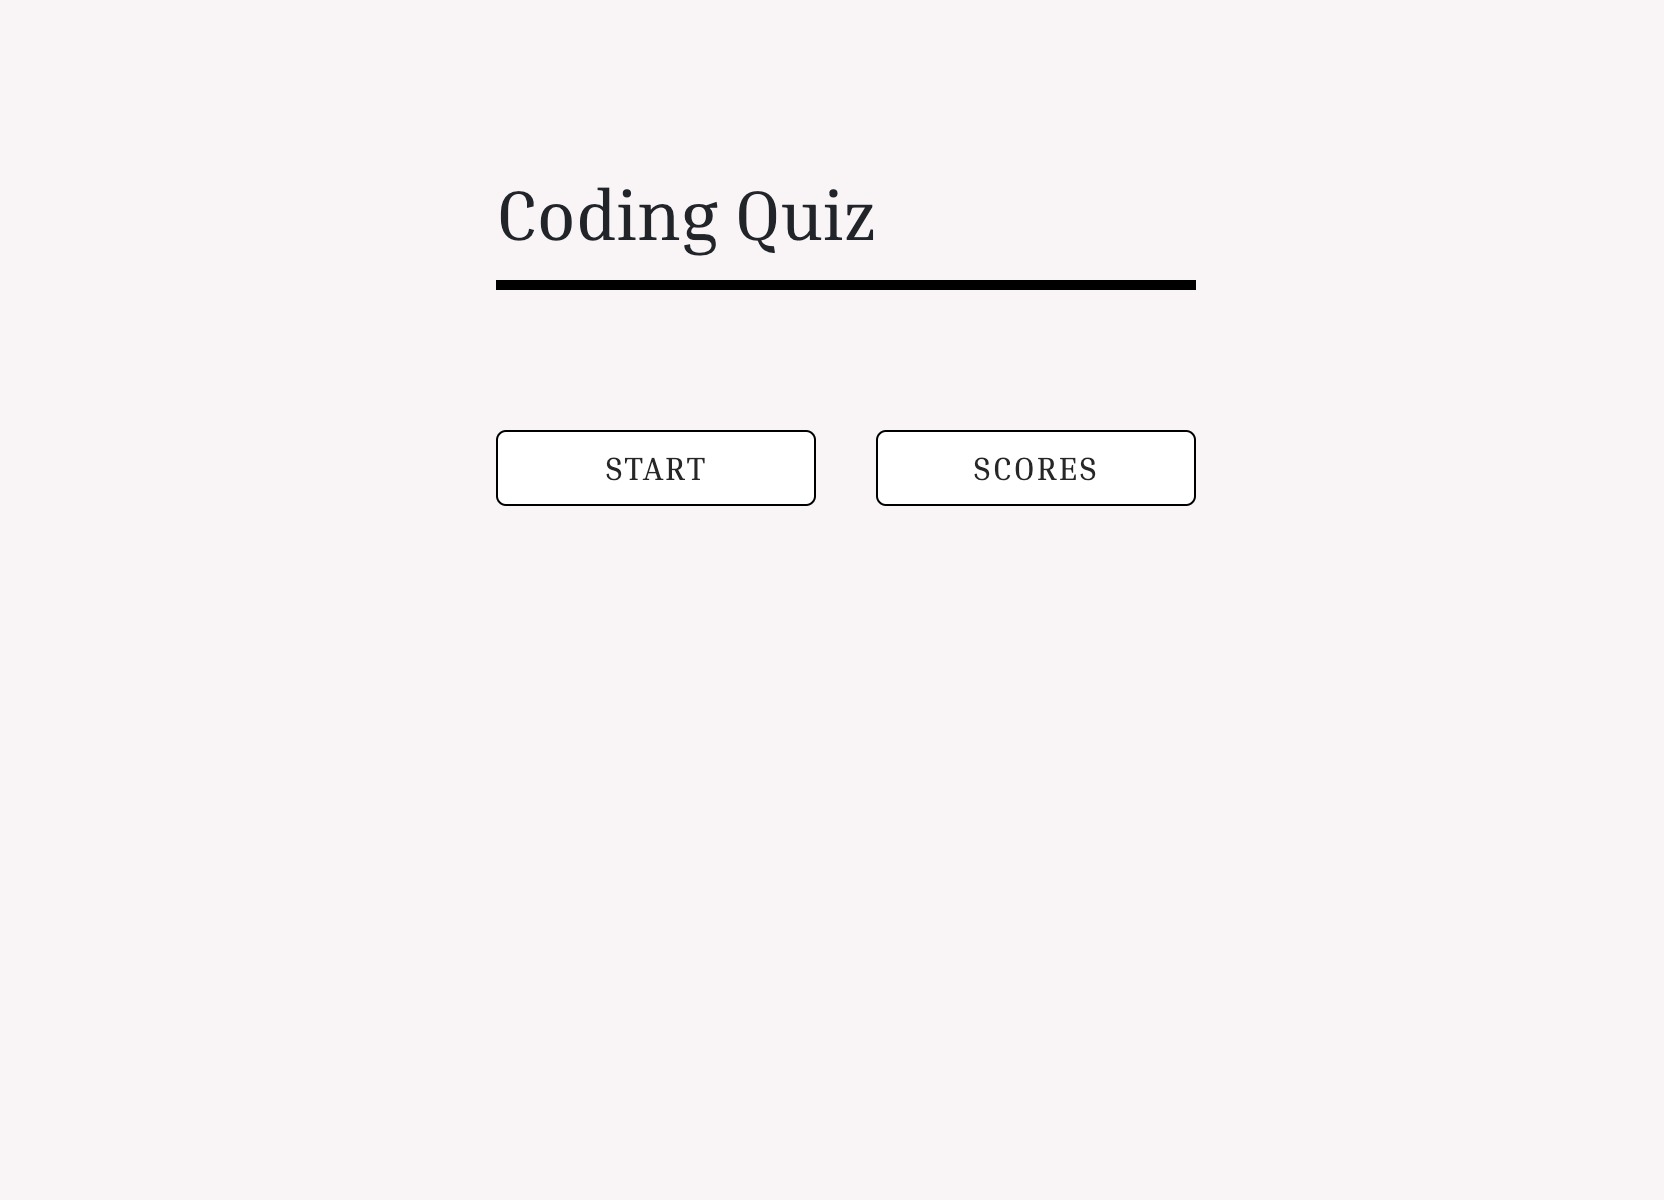
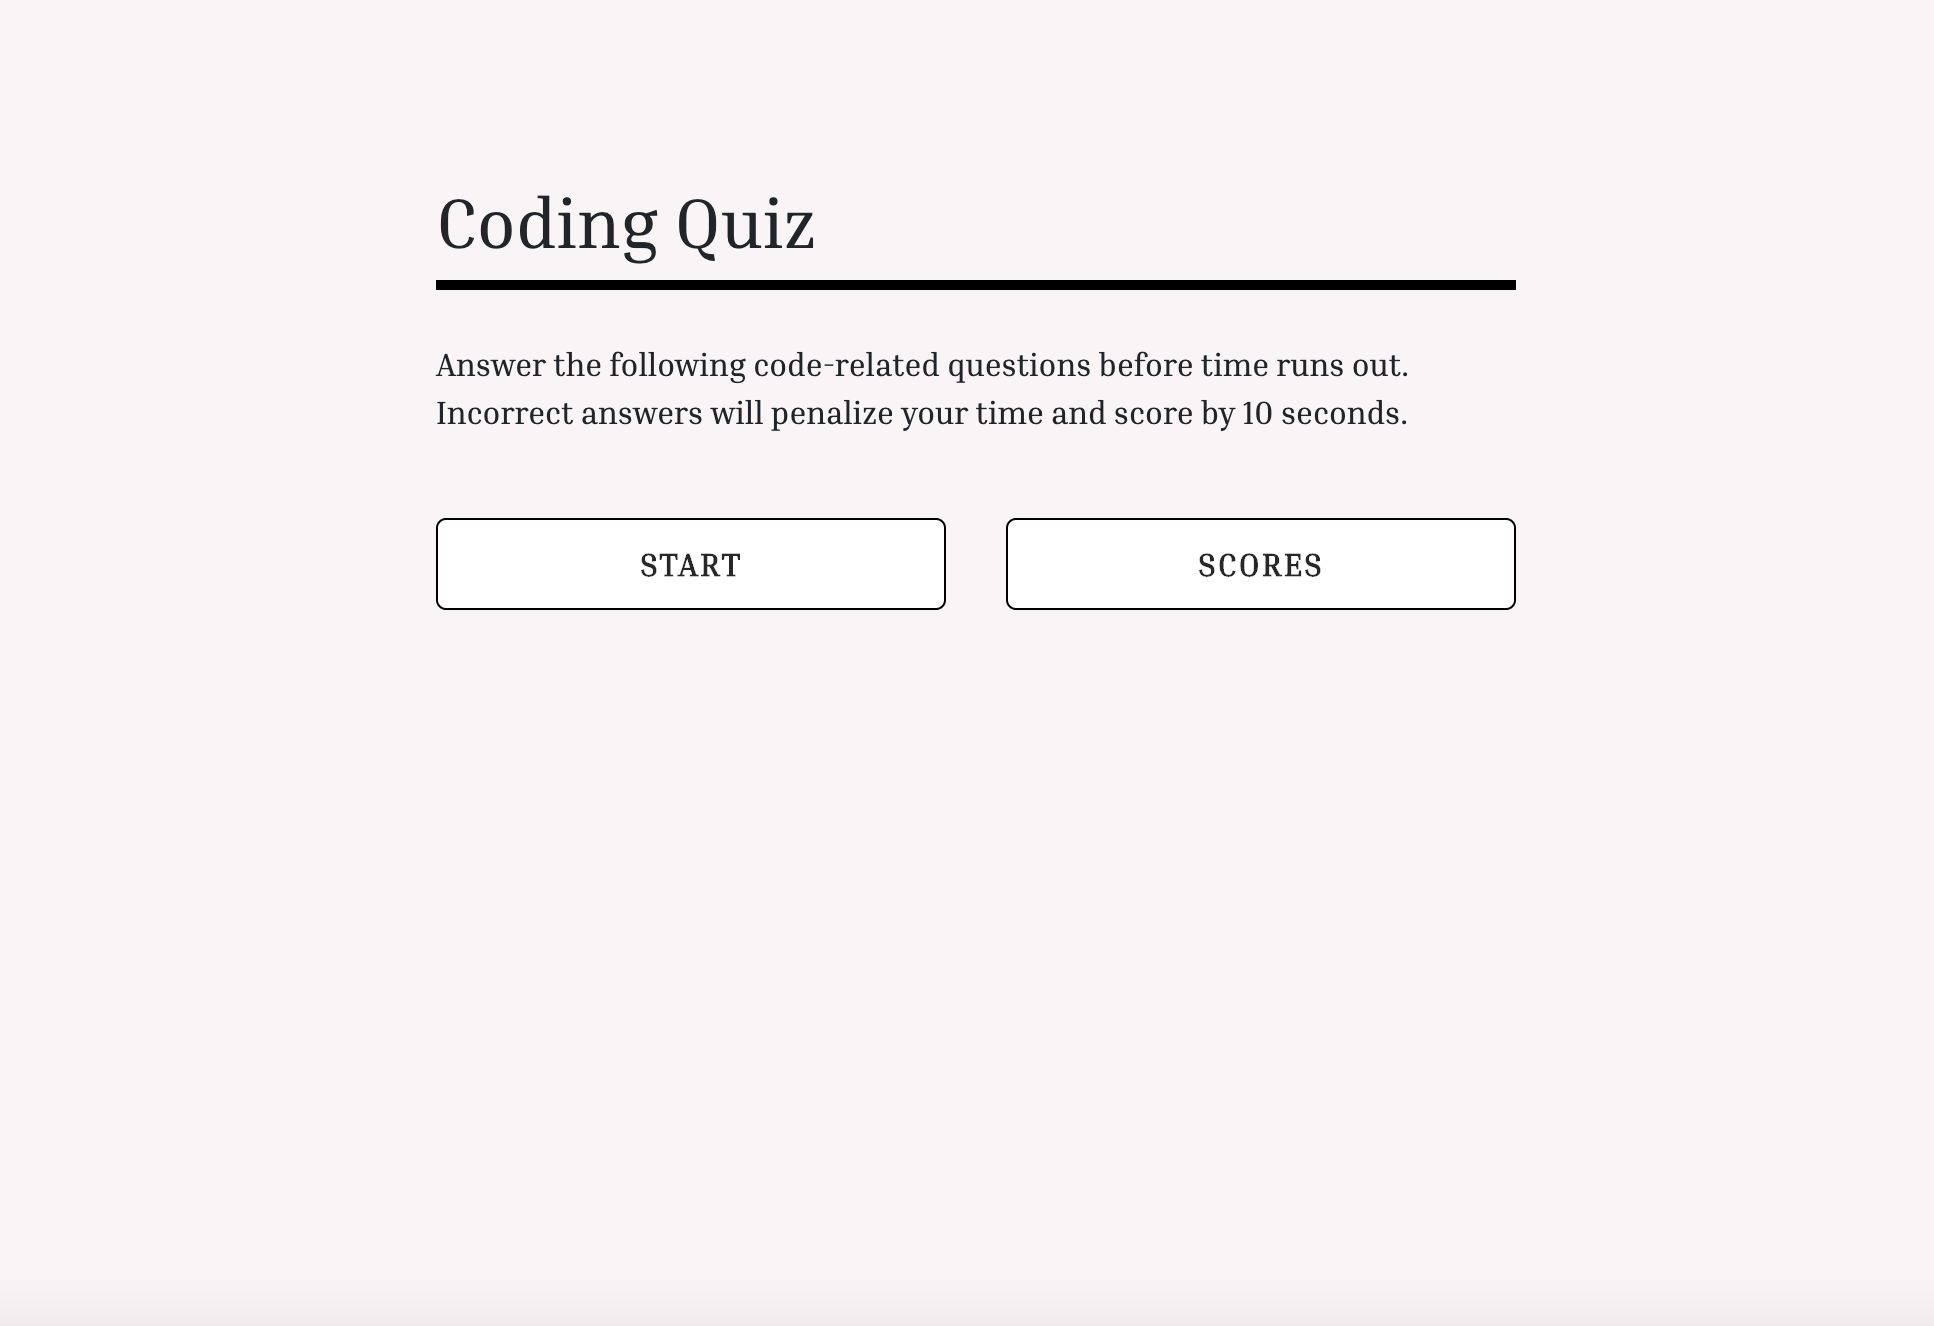
updated script.js comments and updated readme

diff --git a/README.md b/README.md
@@ -1,8 +1,22 @@
-# homework4
-
 # Code Quiz
 
-This project is intended to produce a six question multiple choice quiz. The quiz contains questions related to HTML, CSS, and JavaScript.
+This project is intended to produce a multiple choice quiz. The quiz contains six questions related to HTML, CSS, and JavaScript. The user has 60 seconds to complete the quiz. If a question is answered incorrectly the timer is reduced by 10 seconds. Once all questions have been answered or if time runs out, the quiz ends and the final score is given. The resulting time left is the user’s final score.
+
+# Getting Started
+
+1. Click the START button
+2. Timer begins and the first question with its set of choices are displayed
+3. Once a choice is clicked the next question and set of choices are displayed
+4. User may save the final score along with their initials at the end of the quiz
+5. User is directed to the highscores page when the SUBMIT button is clicked
+6. All highscores are stored in the browser and are displayed on the page in descending order
+7. Click the MENU button to return the the start menu
+8. Click the CLEAR button to remove all highscores and return to the start menu
+9. Click the SCORES button in the start menu to view the highscores
+
+# Built With
+
+Bootstrap - https://getbootstrap.com/
 
 # Link
 
@@ -11,3 +25,7 @@ https://atb5498.github.io/homework4/
 ![alt text](screen.png "Logo Title Text 1")
 
 ![alt text](screen2.png "Logo Title Text 1")
+
+![alt text](screen3.png "Logo Title Text 1")
+
+![alt text](screen4.png "Logo Title Text 1")
